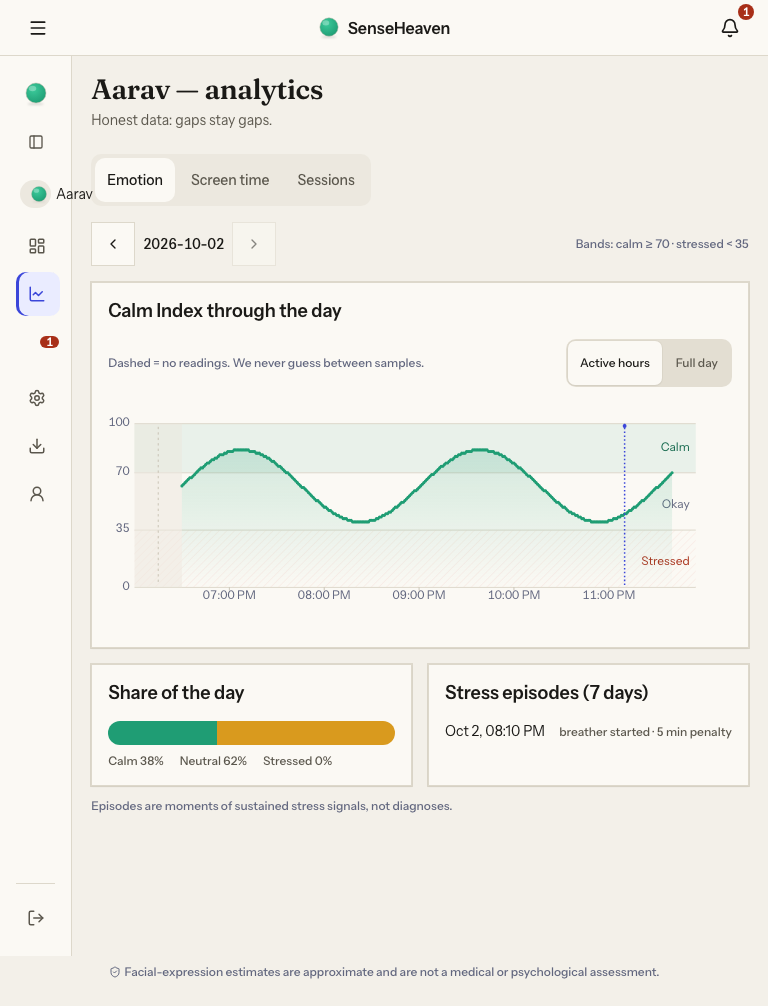
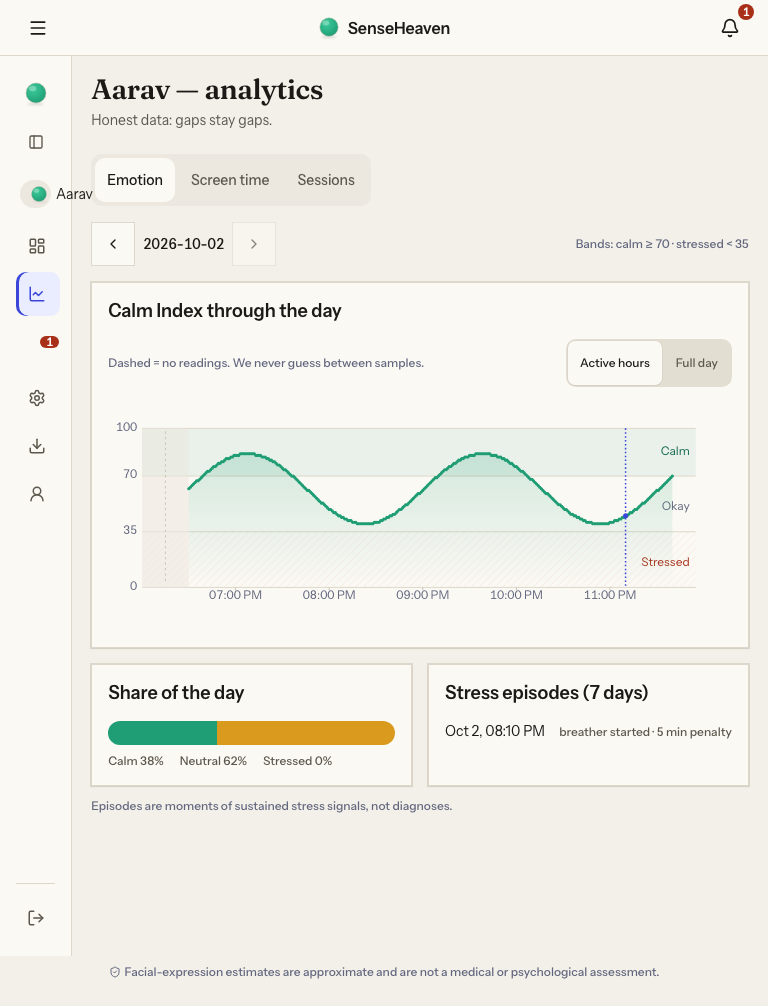
fix(web): verifier re-pass — padLeft scales with u (y-label clip), PAD_TOP headroom, intra-SVG clip gate in G2, episode/date nowrap, login link align, now-dot on the line; verify:ui 223/223 x2 with clip gate

diff --git a/web/src/components/charts/CalmChart.tsx b/web/src/components/charts/CalmChart.tsx
@@ -32,7 +32,7 @@ type Props = {
 
 const PAD_LEFT = 34;
 const PAD_RIGHT = 46;
-const PAD_TOP = 8;
+const PAD_TOP = 14; // headroom for the 12px '100' label's ascender at plot top
 const PAD_BOTTOM = 22;
 
 function minuteOfDay(iso: string): number {
@@ -45,7 +45,7 @@ function fmtTime(iso: string): string {
 }
 
 /** Choose tick positions: every ~2h for a full day, ~30 min for tight windows. */
-function chooseTicks(minM: number, maxM: number, width: number, u: number): number[] {
+function chooseTicks(minM: number, maxM: number, width: number, u: number, axisLeft: number): number[] {
   const span = maxM - minM;
   const targetPx = 90;
   // width is in viewBox units; a 12·u-unit label renders at 12 CSS px, so the per-tick
@@ -57,8 +57,8 @@ function chooseTicks(minM: number, maxM: number, width: number, u: number): numb
   const ticks: number[] = [];
   for (let m = start; m <= maxM; m += stepMin) {
     // drop ticks whose label would collide with the y-axis labels hugging PAD_LEFT
-    const xm = PAD_LEFT + ((m - minM) / (maxM - minM)) * (width - PAD_LEFT - PAD_RIGHT);
-    if (xm < PAD_LEFT + 30 * u) continue;
+    const xm = axisLeft + ((m - minM) / (maxM - minM)) * (width - axisLeft - PAD_RIGHT);
+    if (xm < axisLeft + 30 * u) continue;
     ticks.push(m);
   }
   return ticks;
@@ -93,10 +93,13 @@ export function CalmChart({
 
   const width = 800;
   const H = height;
-  const plotW = width - PAD_LEFT - PAD_RIGHT;
-  const plotH = H - PAD_TOP - PAD_BOTTOM;
   // viewBox units per rendered pixel — keeps SVG text at its CSS size on screen
   const u = renderedW !== null && renderedW > 0 ? Math.max(1, width / renderedW) : 1;
+  // left inset scales with u: the y-axis labels are 12 CSS px wide at every width,
+  // so the reserved gutter must grow with u too or they clip at the svg edge
+  const padLeft = Math.max(PAD_LEFT, PAD_LEFT * u);
+  const plotW = width - padLeft - PAD_RIGHT;
+  const plotH = H - PAD_TOP - PAD_BOTTOM;
 
   const nowMin = useMemo(
     () => minuteOfDay(nowIso ?? new Date().toISOString()),
@@ -119,8 +122,8 @@ export function CalmChart({
   }, [fullDay, samples, nowMin]);
 
   const x = useCallback(
-    (minute: number) => PAD_LEFT + ((minute - domain.min) / (domain.max - domain.min)) * plotW,
-    [domain, plotW],
+    (minute: number) => padLeft + ((minute - domain.min) / (domain.max - domain.min)) * plotW,
+    [domain, plotW, padLeft],
   );
   const y = useCallback((value: number) => PAD_TOP + (1 - value / 100) * plotH, [plotH]);
 
@@ -155,7 +158,7 @@ export function CalmChart({
     return `${path} L${x(visible[visible.length - 1].minute).toFixed(1)},${base} L${x(visible[0].minute).toFixed(1)},${base} Z`;
   }, [visible, path, x, plotH]);
 
-  const ticks = useMemo(() => chooseTicks(domain.min, domain.max, plotW, u), [domain, plotW, u]);
+  const ticks = useMemo(() => chooseTicks(domain.min, domain.max, plotW, u, padLeft), [domain, plotW, u, padLeft]);
   const activeIndex = hoverIndex ?? keyboardIndex;
   const active = activeIndex !== null ? visible[activeIndex] : null;
 
@@ -191,6 +194,11 @@ export function CalmChart({
   };
 
   const nowVisible = !fullDay && nowMin >= domain.min && nowMin <= domain.max;
+  const nowY = useMemo(() => {
+    if (visible.length === 0) return PAD_TOP + 3;
+    const nearest = visible.reduce((a, b) => (Math.abs(b.minute - nowMin) < Math.abs(a.minute - nowMin) ? b : a));
+    return y(nearest.value);
+  }, [visible, nowMin, y]);
 
   return (
     <div className={className} ref={wrapRef}>
@@ -252,9 +260,9 @@ export function CalmChart({
           </defs>
 
           {/* threshold bands */}
-          <rect x={PAD_LEFT} y={PAD_TOP} width={plotW} height={plotH * 0.3} fill="var(--calm)" opacity="0.08" />
+          <rect x={padLeft} y={PAD_TOP} width={plotW} height={plotH * 0.3} fill="var(--calm)" opacity="0.08" />
           <rect
-            x={PAD_LEFT}
+            x={padLeft}
             y={y(35)}
             width={plotW}
             height={plotH - (y(35) - PAD_TOP)}
@@ -265,19 +273,19 @@ export function CalmChart({
           {/* y gridlines + labels */}
           {[0, 35, 70, 100].map((v) => (
             <g key={v}>
-              <line x1={PAD_LEFT} y1={y(v)} x2={PAD_LEFT + plotW} y2={y(v)} stroke="var(--border)" strokeWidth={u} />
-              <text x={PAD_LEFT - 6} y={y(v) + 3} textAnchor="end" fontSize={12 * u} fill="var(--text-subtle)" className="tnum">
+              <line x1={padLeft} y1={y(v)} x2={padLeft + plotW} y2={y(v)} stroke="var(--border)" strokeWidth={u} />
+              <text x={padLeft - 6} y={y(v) + 3} textAnchor="end" fontSize={12 * u} fill="var(--text-subtle)" className="tnum">
                 {v}
               </text>
             </g>
           ))}
-          <text x={PAD_LEFT + plotW - 6 * u} textAnchor="end" y={y(85) + 3} fontSize={12 * u} fill="var(--calm-fg)">
+          <text x={padLeft + plotW - 6 * u} textAnchor="end" y={y(85) + 3} fontSize={12 * u} fill="var(--calm-fg)">
             Calm
           </text>
-          <text x={PAD_LEFT + plotW - 6 * u} textAnchor="end" y={y(50) + 3} fontSize={12 * u} fill="var(--text-subtle)">
+          <text x={padLeft + plotW - 6 * u} textAnchor="end" y={y(50) + 3} fontSize={12 * u} fill="var(--text-subtle)">
             Okay
           </text>
-          <text x={PAD_LEFT + plotW - 6 * u} textAnchor="end" y={y(15) + 3} fontSize={12 * u} fill="var(--stress-fg)">
+          <text x={padLeft + plotW - 6 * u} textAnchor="end" y={y(15) + 3} fontSize={12 * u} fill="var(--stress-fg)">
             Stressed
           </text>
 
@@ -337,7 +345,7 @@ export function CalmChart({
                 strokeWidth={1.5 * u}
                 strokeDasharray="2 3"
               />
-              <circle cx={x(nowMin)} cy={PAD_TOP + 3} r={2.5} fill="var(--primary)" />
+              <circle cx={x(nowMin)} cy={nowY} r={2.5 * u} fill="var(--primary)" />
             </g>
           ) : null}
 

diff --git a/web/src/features/analytics/AnalyticsPage.tsx b/web/src/features/analytics/AnalyticsPage.tsx
@@ -68,7 +68,7 @@ function EmotionTab() {
           <Button variant="outline" size="icon" aria-label="Previous day" onClick={() => setDate(shiftDate(date, -1))}>
             <ChevronLeft size={16} aria-hidden />
           </Button>
-          <span className="tnum text-secondary font-medium">{date}</span>
+          <span className="tnum text-secondary font-medium" data-nowrap>{date}</span>
           <Button
             variant="outline"
             size="icon"
@@ -132,7 +132,7 @@ function EmotionTab() {
               <ul className="space-y-2 text-secondary">
                 {stressEpisodes.map((session) => (
                   <li key={session.id} className="flex items-baseline justify-between gap-2">
-                    <span>
+                    <span className="shrink-0" data-nowrap>
                       {session.started_at ? new Date(session.started_at).toLocaleString([], { day: "numeric", month: "short", hour: "2-digit", minute: "2-digit" }) : "—"}
                     </span>
                     <span className="tnum text-caption text-text-muted">

diff --git a/web/verification/checks.ts b/web/verification/checks.ts
@@ -59,6 +59,18 @@ export async function findOverflow(page: Page): Promise<string[]> {
 };
     const out: string[] = [];
     const doc = document.documentElement;
+    // intra-SVG clipping: an SVG viewport clips by default, so text outside its own
+    // <svg> box is invisible to scrollWidth — compare each svg text to its svg's rect
+    document.querySelectorAll<SVGTextElement>("svg text").forEach((t) => {
+      const svg = t.closest("svg");
+      if (!svg) return;
+      const tr = t.getBoundingClientRect();
+      const sr = svg.getBoundingClientRect();
+      if (tr.width === 0 || sr.width === 0) return;
+      if (tr.left < sr.left - 0.5 || tr.right > sr.right + 0.5 || tr.top < sr.top - 0.5 || tr.bottom > sr.bottom + 0.5) {
+        out.push(`<text> "${(t.textContent || "").trim().slice(0, 24)}" is clipped by its svg viewport`);
+      }
+    });
     if (doc.scrollWidth > doc.clientWidth + 1) {
       out.push(`page scrolls horizontally (${doc.scrollWidth} > ${doc.clientWidth})`);
     }

diff --git a/web/src/features/auth/LoginPage.tsx b/web/src/features/auth/LoginPage.tsx
@@ -108,7 +108,7 @@ export function LoginPage() {
         <Button type="submit" className="w-full sm:w-auto sm:min-w-40" size="lg" disabled={isSubmitting || (rateLimited && countdown > 0)}>
           {isSubmitting ? "Signing in…" : "Sign in"}
         </Button>
-        <p className="text-center text-secondary text-text-muted">
+        <p className="text-left text-secondary text-text-muted">
           New here?{" "}
           <Link to="/register" className="inline-flex min-h-11 items-center font-medium text-primary hover:underline lg:min-h-6">
             Create an account

diff --git a/verification/round-2.md b/verification/round-2.md
@@ -43,3 +43,25 @@ in `verification/shots/` regenerated by those runs.
 - Per-view remaining tells ≤ 1: Now-panel airiness (overview, desktop), compact tick
   spacing at 390 (boxes clear, G1 green). No emoji, no exclamation marks, no ALL-CAPS, no
   gradient slabs (login blob flattened), no raw package ids, verbs on buttons.
+
+## Independent verifier re-pass (round 2)
+
+Verdict: all 12 round-1 findings RESOLVED (none regressed), verified against the fresh
+screenshots and the check sources. New findings from the re-pass and their resolutions:
+
+- A (major): analytics y-axis labels clipped by the SVG viewport at narrow widths —
+  fixed twice over: (1) `padLeft = max(PAD_LEFT, PAD_LEFT·u)` so the reserved gutter grows
+  with the scaled fonts, (2) `PAD_TOP` headroom for the "100" label's ascender, and
+  (3) the verifier's demanded check now exists: G2 compares every `svg text` box against
+  its own SVG viewport and fails on intra-SVG clipping (invisible to scrollWidth).
+- B/C (minor): episode timestamp and ISO date no longer wrap mid-value (`data-nowrap`).
+- E (minor): login link row left-aligned with the auto-width button.
+- F (minor): the analytics now-dot rides the nearest sample's y, not the plot ceiling.
+- D (minor, accepted): a single x tick at 320 is the honest outcome of the 12px floor +
+  58px label budget; legible and honest, noted rather than gamed.
+- Residue (minor, accepted): LEAN asks for a stress-episodes table; with one fixture
+  episode the list reads as a row. Table columns land with real multi-episode data.
+
+Exit evidence: `npm run verify:ui` → 223/223 twice consecutively with the clip gate in the
+build (2026-10-03), plus gate-4 chain PASS (types/lint/unit/build/e2e/screenshots/rubric/
+contrast/prod-serve/placeholders/regression).
